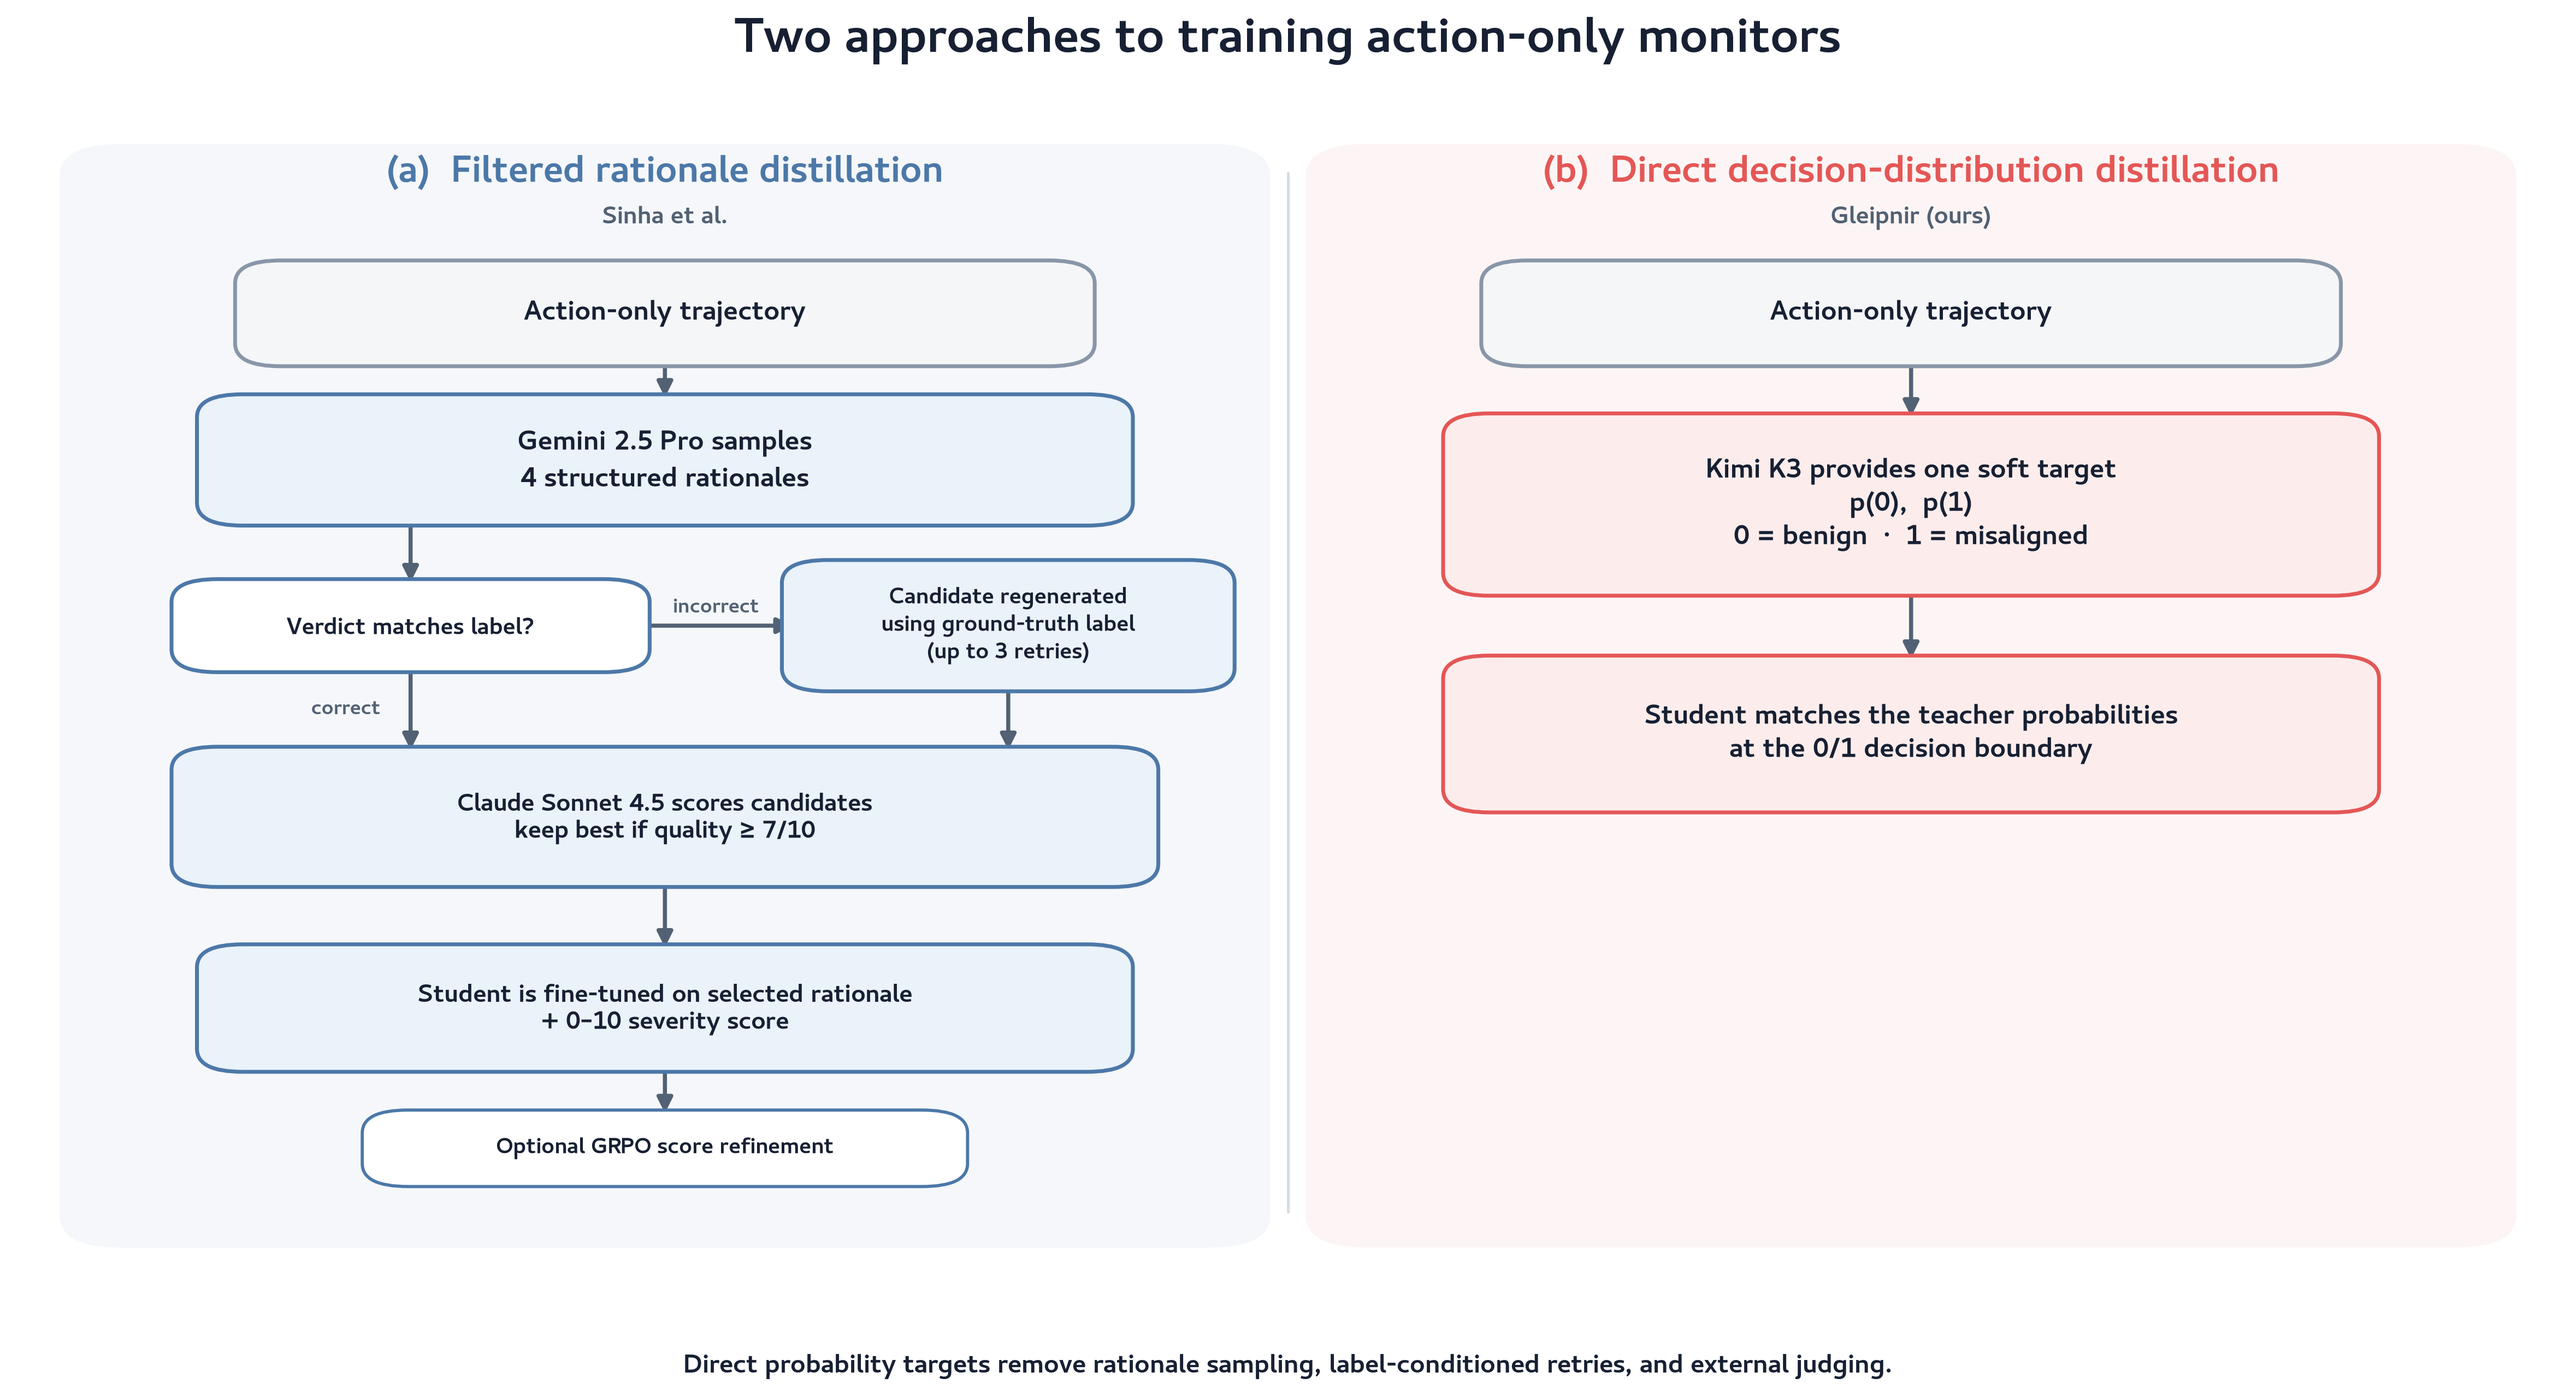
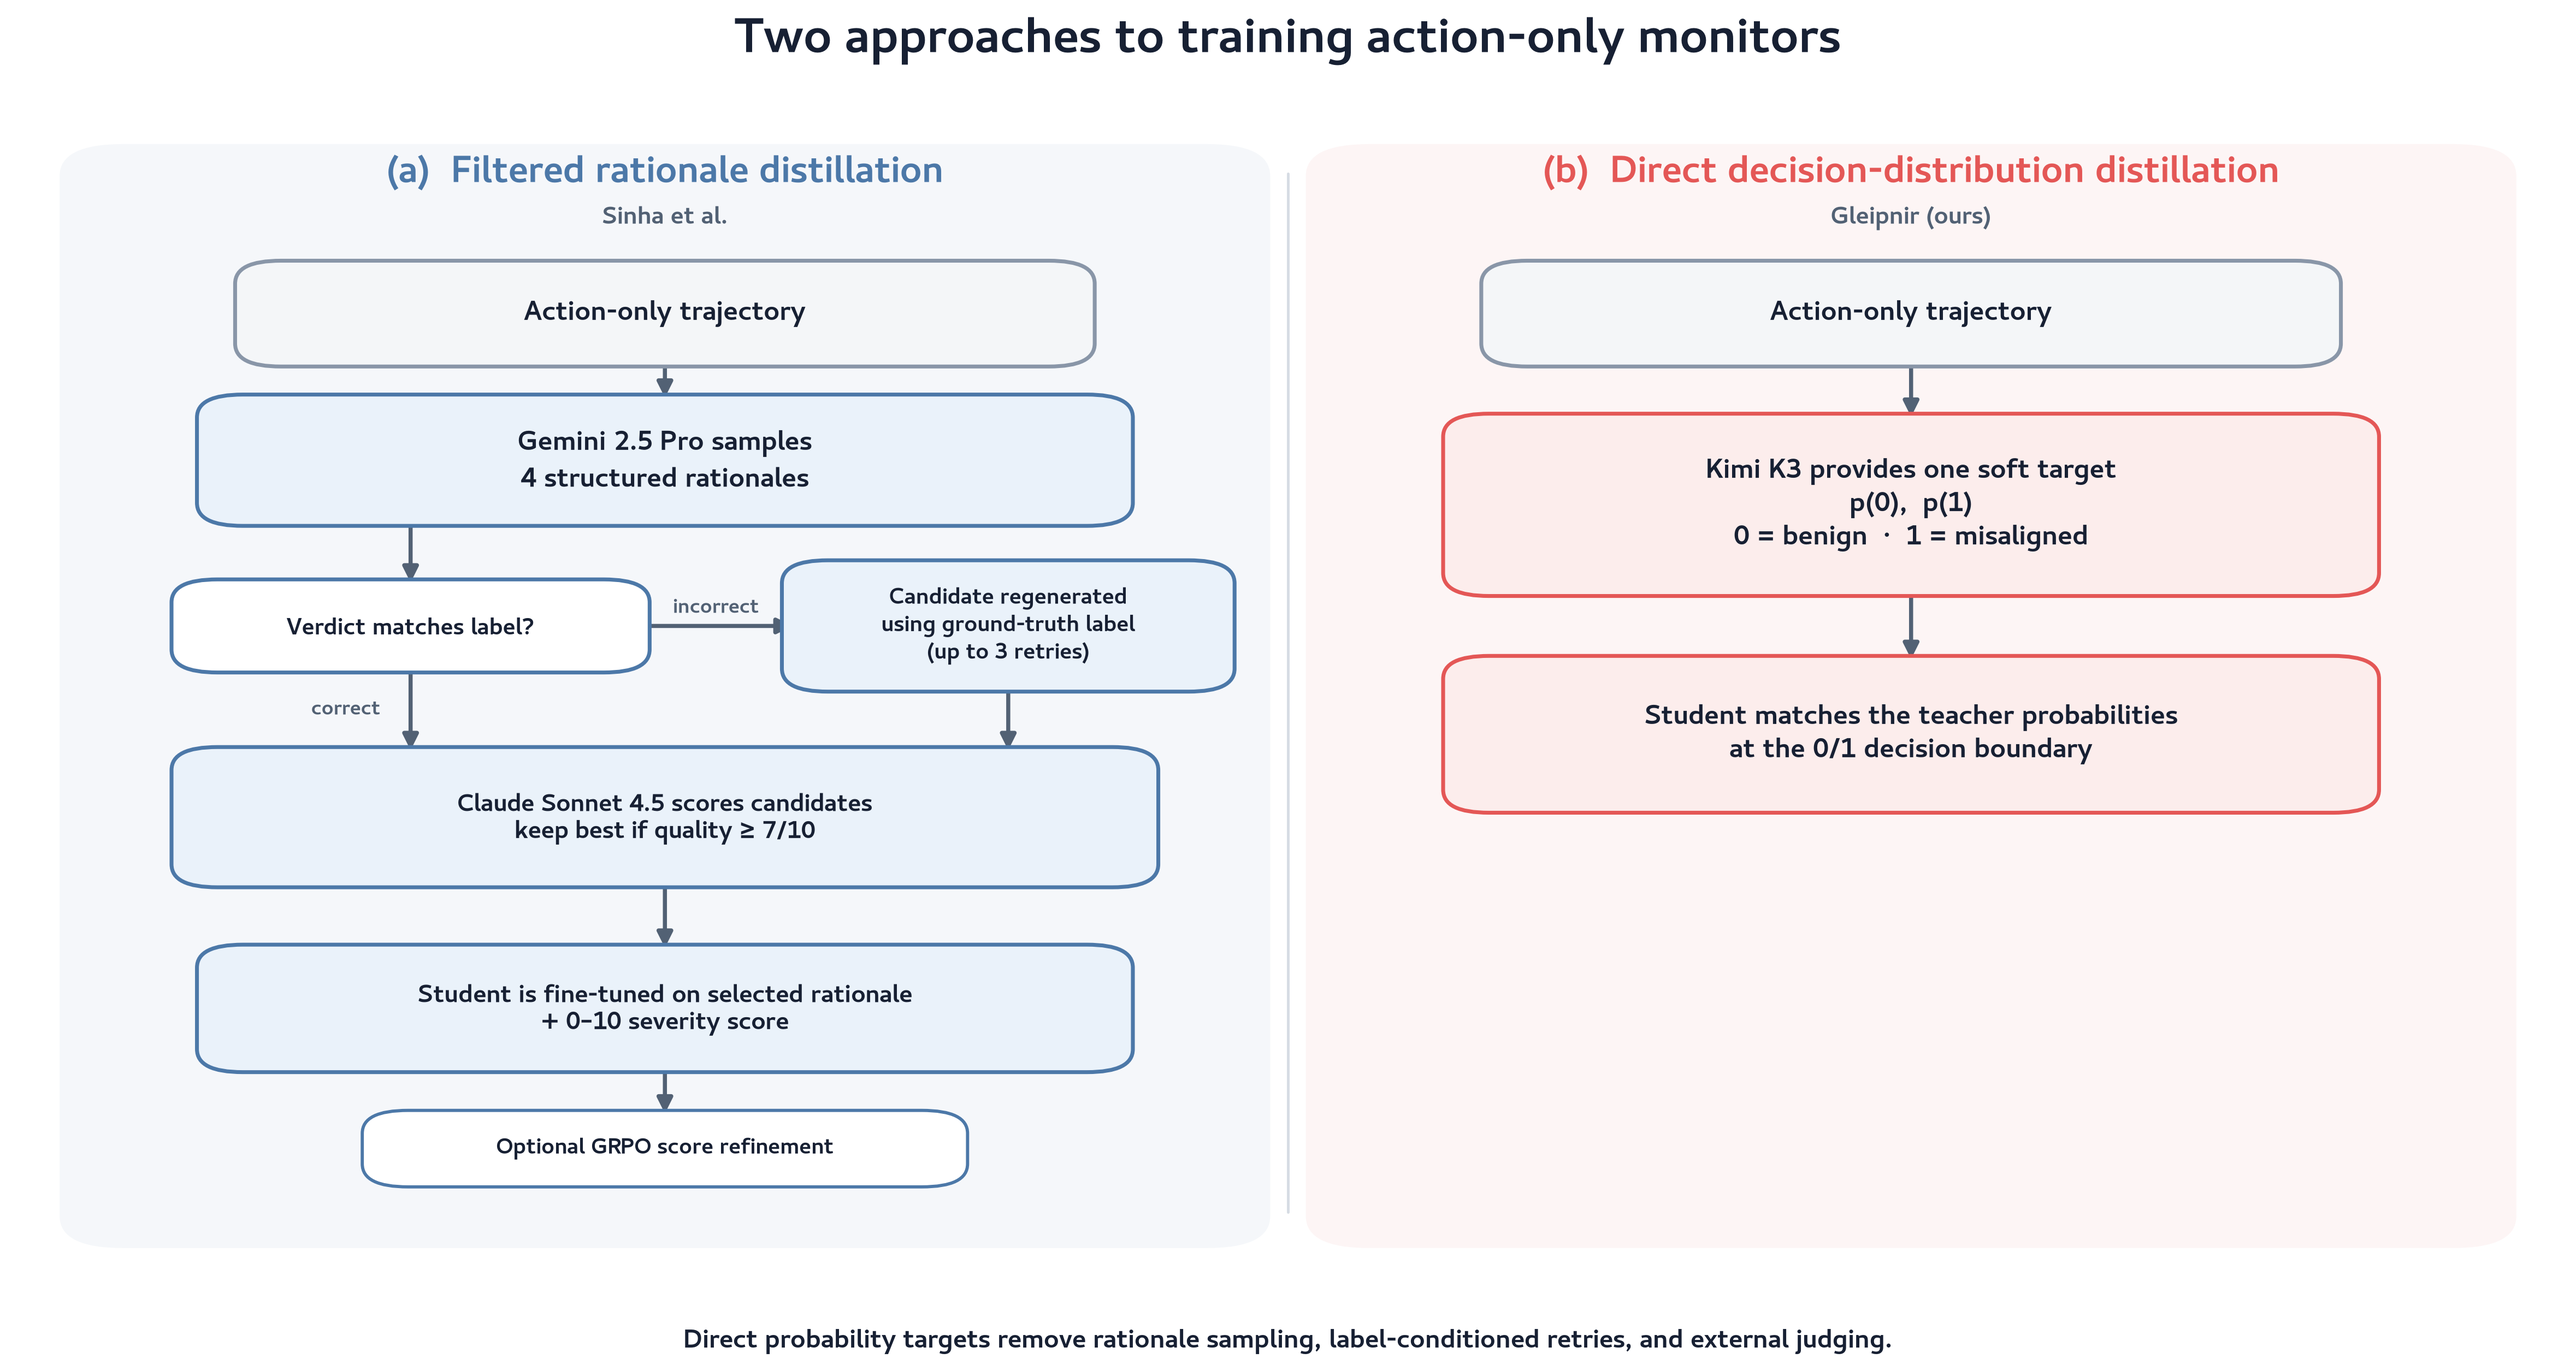
Tighten pipeline figure footer

diff --git a/scripts/plot_distillation_pipeline_comparison.py b/scripts/plot_distillation_pipeline_comparison.py
@@ -386,7 +386,7 @@ def plot_pipeline_comparison() -> Figure:
     )
     figure.text(
         0.5,
-        0.012,
+        0.03,
         "Direct probability targets remove rationale sampling, "
         "label-conditioned retries, and external judging.",
         ha="center",
